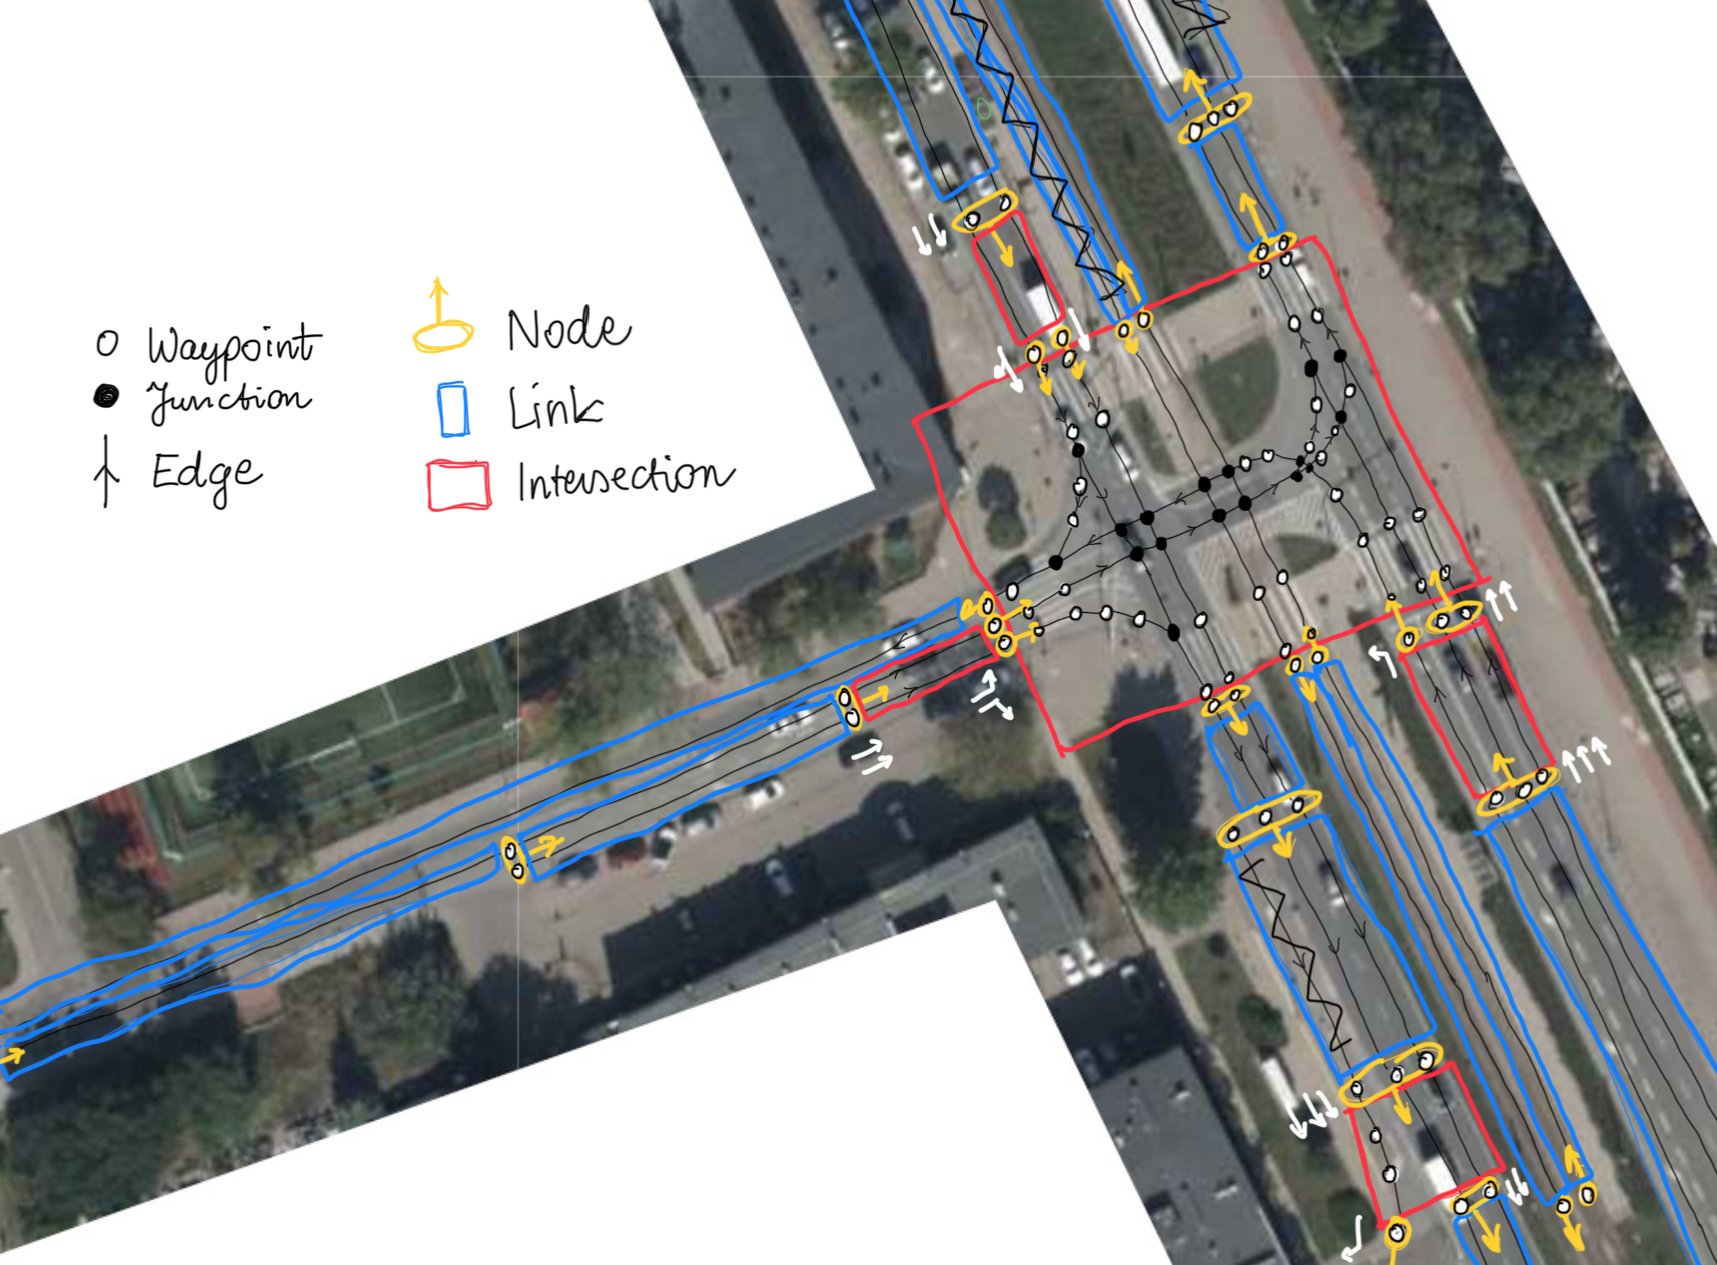
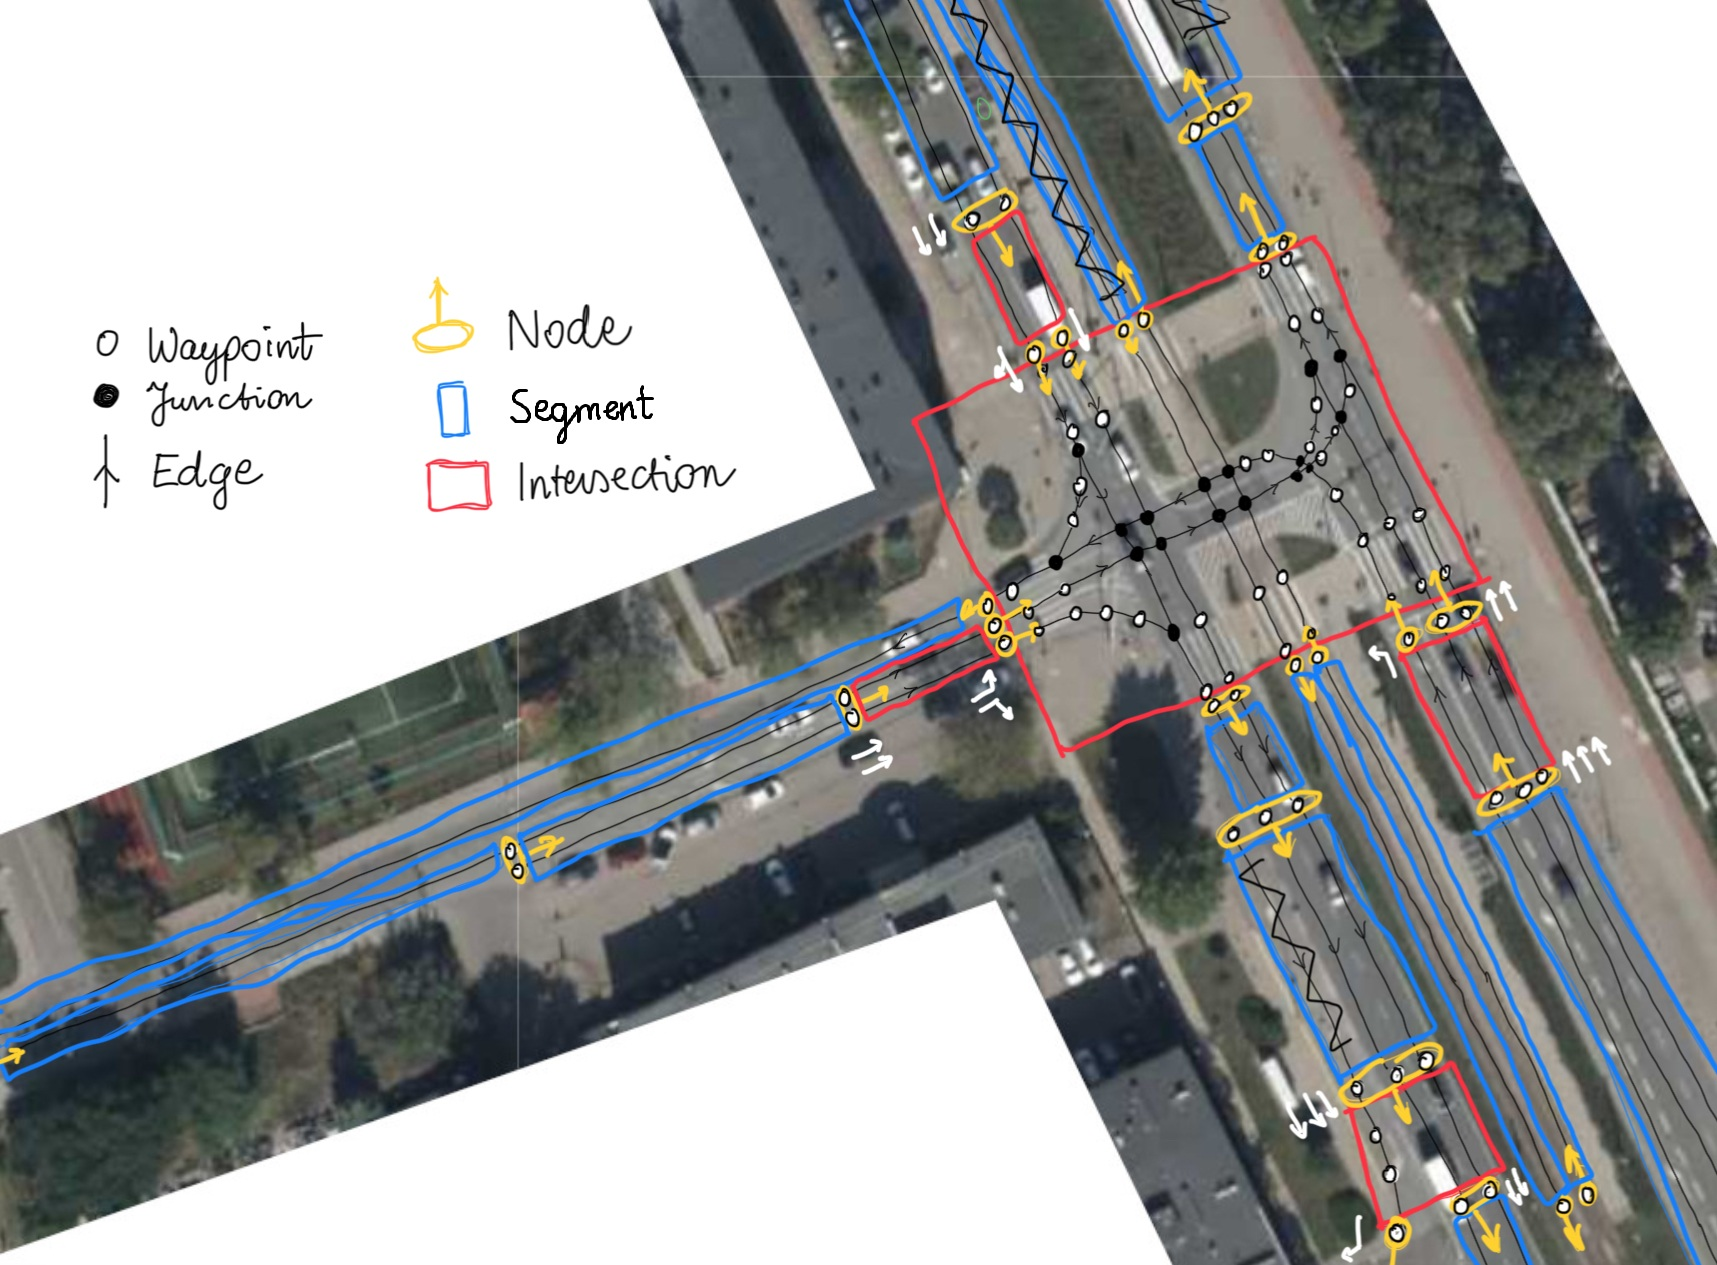
Aktualizacja readme

diff --git a/README.md b/README.md
@@ -51,10 +51,10 @@ Droga, po której będą poruszać się agenci będzie reprezentowana jako graf,
     - typu `Waypoint`: max 1 `Edge` wchodzący i max 1 `Edge` wychodzący,
     - typu `Junction`: >1 `Edge` wchodzący lub >1 `Edge` wychodzący.
 
-**Na wysokim poziomie będzie się składać z wierzchołków `Node` i krawędzi `Segment`**:
+**Na wysokim poziomie będzie się składać z wierzchołków `Node` i krawędzi `Link`**:
 
 - `Node` to zbiór `Vertex` z pewnym punktem odniesienia oraz z kierunkiem,
-- `Link` to zbiór `Edge` łączących `Node`.  
+- `Link` to zbiór `Edge` (oraz opcjonalnie `Vertex` np. na zakręcie lub skrzyżowaniu) łączących `Node`.  
 
 `Link` dzielę na 2 przypadki:
    - Łączy 2 `Node` to jest segmentem typu `Segment`,    
